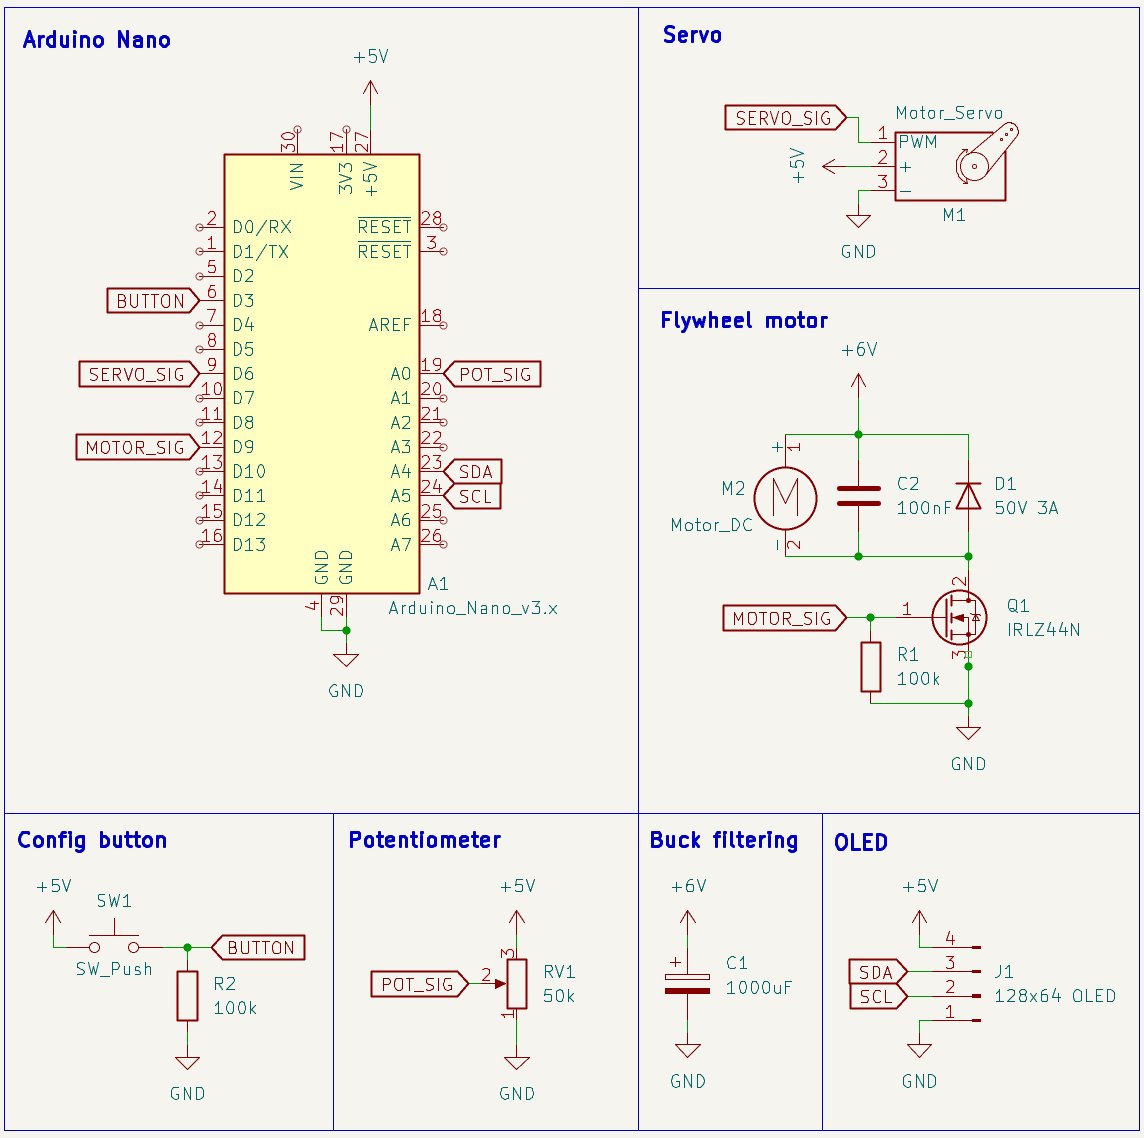
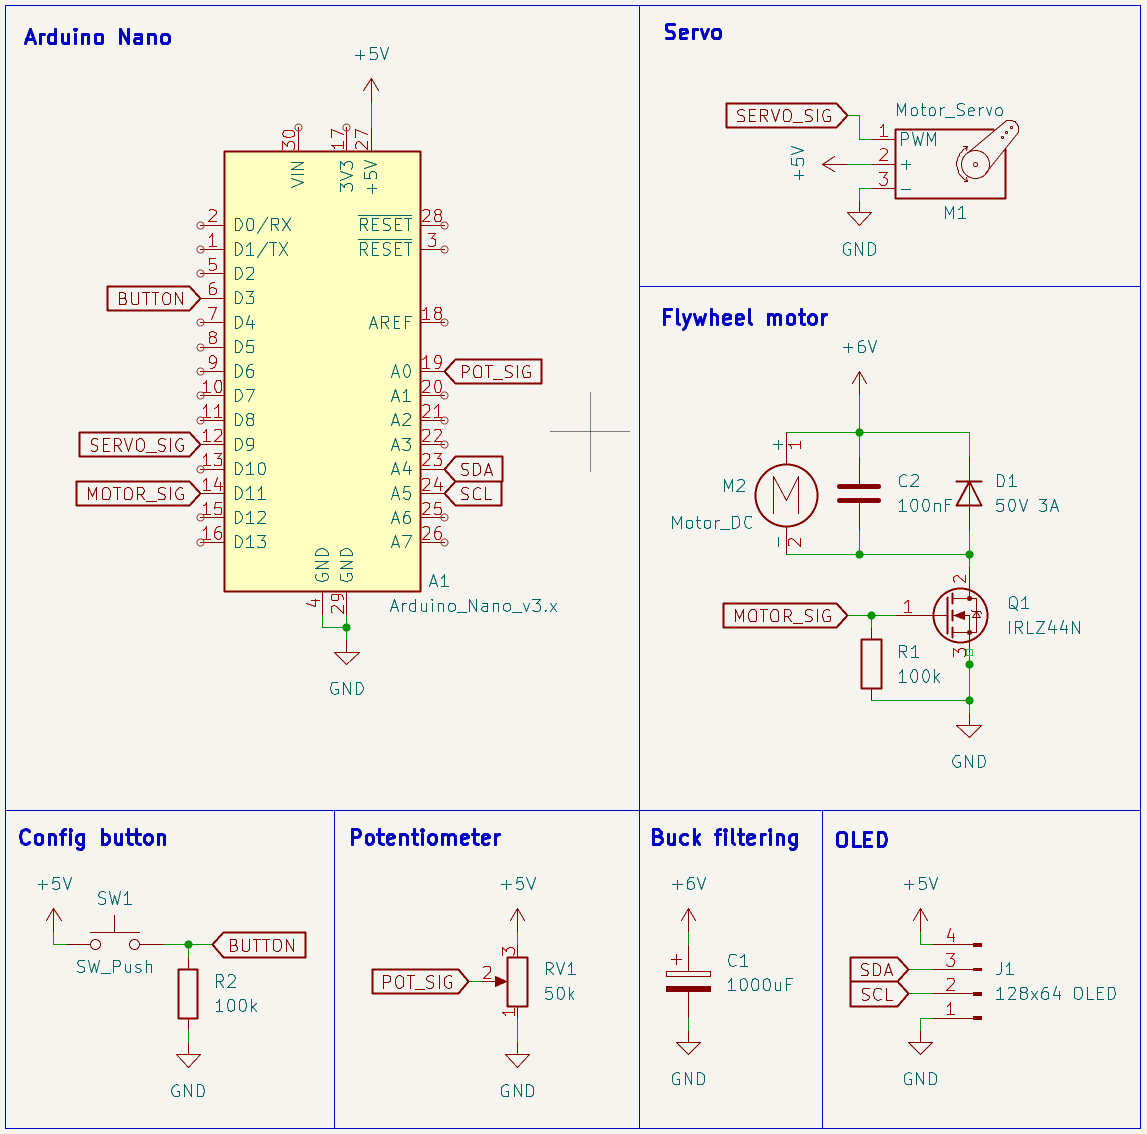
docs(changelog): update changelog

diff --git a/CHANGELOG.md b/CHANGELOG.md
@@ -7,6 +7,18 @@ and this project adheres to [Semantic Versioning](https://semver.org/spec/v2.0.0
 
 ## [Unreleased]
 
+## [1.0.0] - 2026-04-13
+
+- Added application note docs (AN003 & AN004 are scaffolds to be filled!)
+- Updated controller schematic missing resistor value & incorrect pinmap
+
+## [1.0.0] - 2026-04-12
+
+- Added ICD v1.0.0
+- Migrated aruco detector package to remote pc
+- Updated dynamic launch node to also command static sequence
+- Added lift API code
+
 ## [1.0.0] - 2026-04-10
 
 ### Added
